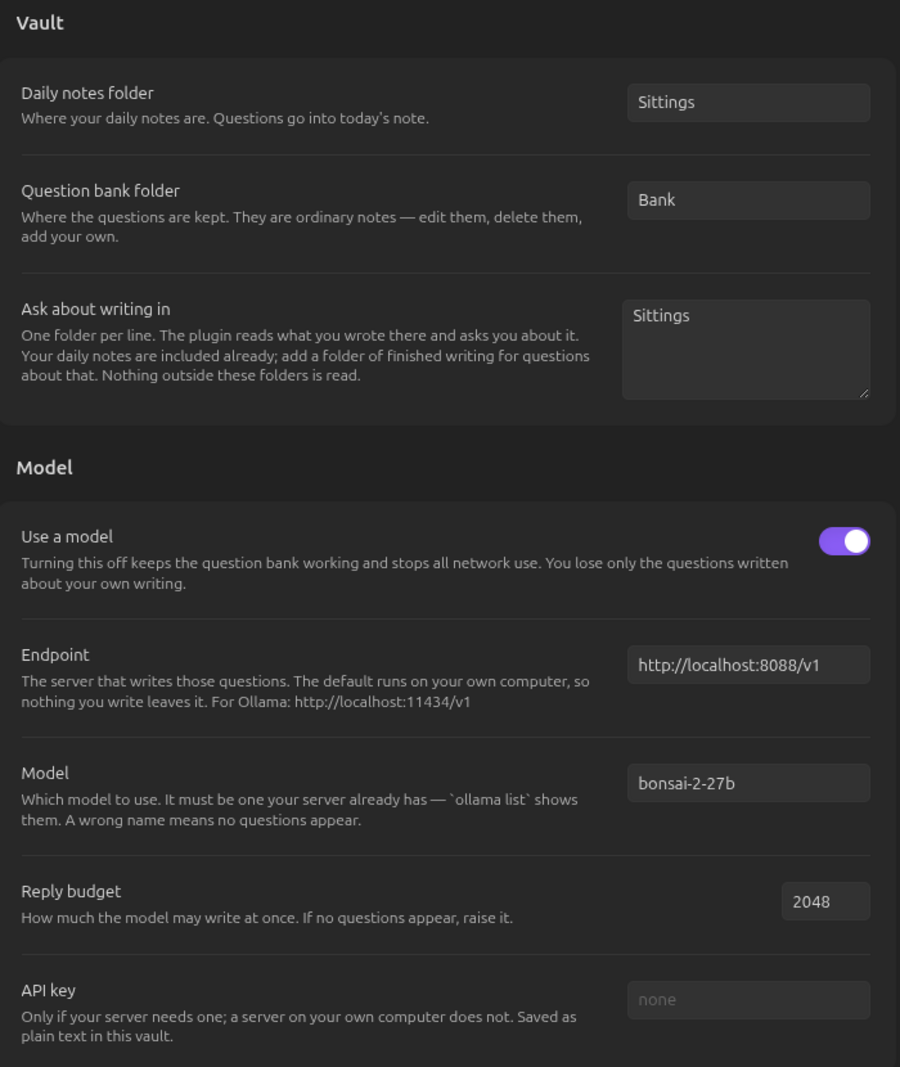
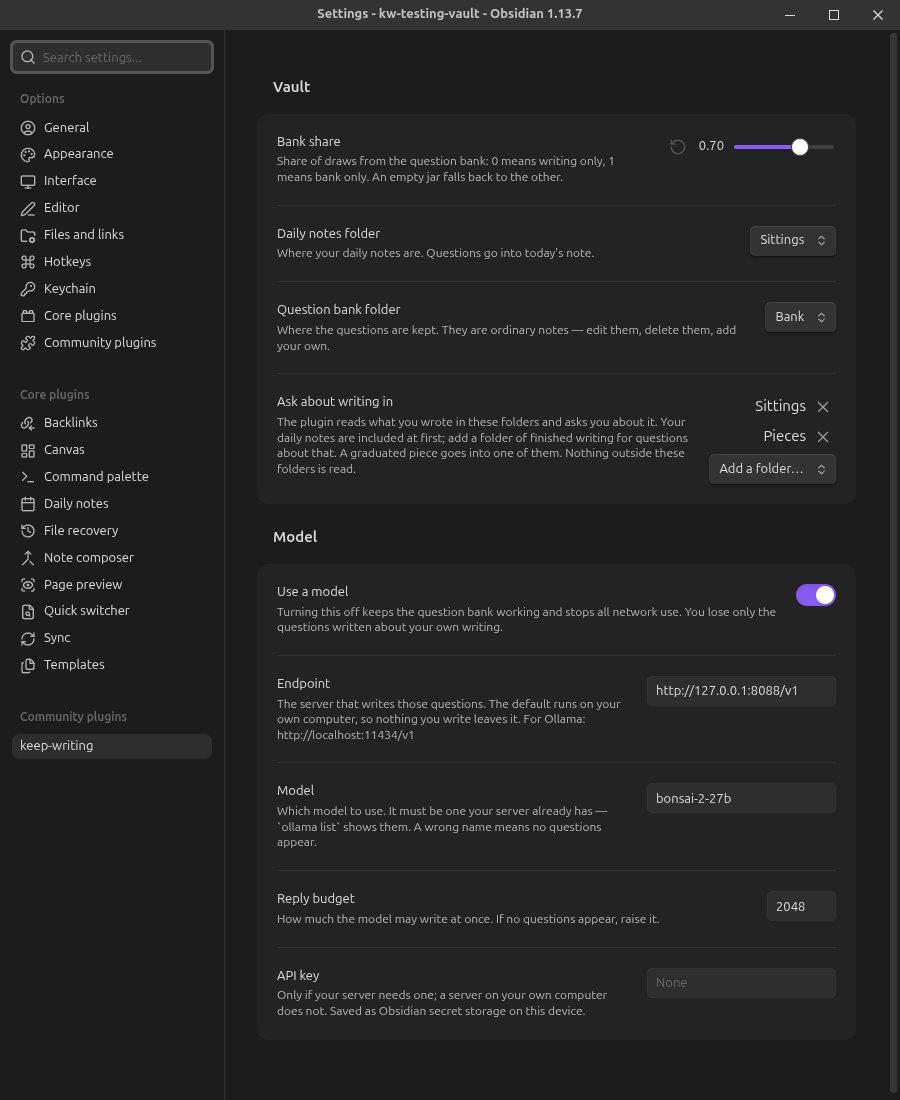
README: re-record the loop and graduation; folder dropdowns stay fresh
- loop.gif, graduate.gif, menu.png and settings.png recorded in the demo
  vault by Obsidian capturing its own window; scripts/record/ says how.
- Settings folder dropdowns offered only the current folder after every
  app start: Obsidian stores getSettingDefinitions() at plugin load, before
  the vault is indexed. keepFoldersFresh re-reads them on layout ready and
  on every folder create, delete and rename.

diff --git a/scripts/record/loop.js b/scripts/record/loop.js
@@ -1,0 +1,46 @@
+// The loop: answer a question, mark it done, take a follow-up. Demo vault only.
+(() => {
+  const K = window.__kw;
+  const ANSWER = 'I said I would call from the station, and I meant it when I said it. The phone box outside was out of order and by the time I found another one it was late enough that ringing would have been its own kind of rudeness. That is the whole of it. Not a decision, just a series of small reasonable delays that added up to never.';
+  K.run('loop', async () => {
+    const path = 'Sittings/2026-09-25.md';
+    const old = app.vault.getAbstractFileByPath(path);
+    if (old) await app.vault.delete(old);
+    const body = '## Asked\n\n> [!ask] what was the last thing you said before a door closed for good?\n> from [[Bank/autobiographical#^ep-003]]\n\n\n';
+    const file = await app.vault.create(path, body);
+    await app.workspace.getLeaf(false).openFile(file);
+    await K.sleep(900);
+    const ed = K.editor();
+    ed.setCursor({ line: 5, ch: 0 });
+    ed.focus();
+    await K.frame('loop-01', 1.6);
+    // Typed in chunks of words, so the answer is seen being written.
+    const words = ANSWER.split(' ');
+    const step = Math.ceil(words.length / 7);
+    for (let i = step, n = 2; i < words.length + step; i += step, n++) {
+      const text = words.slice(0, Math.min(i, words.length)).join(' ');
+      ed.setLine(5, text);
+      ed.setCursor({ line: 5, ch: text.length });
+      await K.frame(`loop-${String(n).padStart(2, '0')}`, i >= words.length ? 1.4 : 0.35);
+    }
+    // Obsidian saves the editor about 2 s after the last keystroke, and marking
+    // reads the saved note. A person pauses; so does this.
+    await K.sleep(3000);
+    K.rightClick();
+    await K.until(() => K.menus().length > 0, 3000);
+    const sub = await K.openSubmenu();
+    K.hover('Mark this answer done, and follow up');
+    await K.frame('loop-20', 2.6);
+    K.item(sub, 'Mark this answer done, and follow up').click();
+    await K.until(() => document.querySelector('.notice'), 5000).catch(() => null);
+    await K.sleep(700);
+    await K.frame('loop-21', 1.8);
+    await K.until(() => document.querySelectorAll('.prompt .suggestion-item').length > 0, 120000);
+    await K.sleep(300);
+    await K.frame('loop-22', 3.2);
+    document.querySelector('.prompt .suggestion-item').click();
+    await K.until(() => !document.querySelector('.prompt'), 5000);
+    await K.sleep(900);
+    await K.frame('loop-23', 3.6);
+  });
+})();

diff --git a/scripts/record/graduate.js b/scripts/record/graduate.js
@@ -1,0 +1,45 @@
+// Graduation: a thread of the demo Sitting becomes a piece. Demo vault only.
+(() => {
+  const K = window.__kw;
+  const row = (name) => [...document.querySelectorAll('.modal .setting-item')].find((r) => r.querySelector('.setting-item-name')?.textContent === name);
+  K.run('graduate', async () => {
+    const file = app.vault.getAbstractFileByPath('Sittings/2026-09-18.md');
+    await app.workspace.getLeaf(false).openFile(file);
+    await K.sleep(900);
+    const ed = K.editor();
+    const line = ed.getValue().split('\n').findIndex((l) => l.includes('^5vaacs'));
+    ed.setCursor({ line, ch: ed.getLine(line).length });
+    ed.focus();
+    ed.scrollIntoView({ from: { line: 0, ch: 0 }, to: { line: 0, ch: 0 } });
+    await K.frame('grad-01', 1.8);
+    K.rightClick();
+    await K.until(() => K.menus().length > 0, 3000);
+    await K.openSubmenu();
+    K.hover('Graduate threads to pieces');
+    await K.frame('grad-02', 2.4);
+    [...K.menus()[1].querySelectorAll('.menu-item')].find((i) => i.textContent.includes('Graduate')).click();
+    await K.until(() => document.querySelector('.modal .kw-summary'), 5000);
+    await K.frame('grad-03', 1.0);
+    await K.until(() => { const t = document.querySelector('.modal .kw-summary')?.textContent ?? ''; return t && !t.startsWith('Reading'); }, 120000);
+    await K.frame('grad-04', 2.4);
+    const input = row('Title').querySelector('input');
+    const title = 'The door handle';
+    for (let i = 5; i <= title.length + 4; i += 5) {
+      input.value = title.slice(0, i);
+      input.dispatchEvent(new Event('input', { bubbles: true }));
+      await K.sleep(80);
+    }
+    await K.frame('grad-05', 1.6);
+    row('Suggest headings').querySelector('.checkbox-container').click();
+    const questions = ['what did you save from a place that no longer exists?', 'What did the flat look like on a rainy day when the handle stuck?'];
+    await K.until(() => {
+      const fields = [...document.querySelectorAll('.modal .kw-piece input[type=text]')].slice(1);
+      return fields.length === 2 && fields.every((f, i) => f.value && f.value !== questions[i]);
+    }, 120000);
+    await K.frame('grad-06', 3.4);
+    [...document.querySelectorAll('.modal button')].find((b) => b.textContent === 'Graduate').click();
+    await K.until(() => app.workspace.getActiveFile()?.path === 'Pieces/The door handle.md', 10000);
+    await K.sleep(1200);
+    await K.frame('grad-07', 4.0);
+  });
+})();

diff --git a/scripts/record/lib.js b/scripts/record/lib.js
@@ -1,0 +1,48 @@
+// Shared helpers for recording keep-writing in the demo vault. Runs inside Obsidian.
+(() => {
+  const r = window.require('@electron/remote');
+  const fs = window.require('fs');
+  const DIR = '/mnt/Ghar/2TA/DevStuff/notebook/.kw-capture';
+  const K = (window.__kw = { frames: [], state: 'idle', log: [] });
+  K.sleep = (ms) => new Promise((res) => setTimeout(res, ms));
+  K.frame = async (name, seconds) => {
+    await K.sleep(120);
+    const img = await r.getCurrentWebContents().capturePage();
+    fs.writeFileSync(`${DIR}/${name}.png`, img.toPNG());
+    K.frames.push({ name, seconds });
+  };
+  K.until = async (test, ms = 90000) => {
+    const end = Date.now() + ms;
+    while (Date.now() < end) { const v = test(); if (v) return v; await K.sleep(200); }
+    throw new Error('timed out waiting');
+  };
+  K.editor = () => app.workspace.activeEditor.editor;
+  K.rightClick = () => {
+    const ed = K.editor(); const cm = ed.cm;
+    const c = cm.coordsAtPos(cm.state.selection.main.head);
+    const ref = app.workspace.on('editor-menu', (m) => { K.menu = m; });
+    cm.contentDOM.dispatchEvent(new MouseEvent('contextmenu', { bubbles: true, cancelable: true, clientX: c.left + 4, clientY: c.top + 8 }));
+    app.workspace.offref(ref);
+  };
+  K.menus = () => [...document.querySelectorAll('.menu')];
+  K.item = (menu, title) => [...menu.querySelectorAll('.menu-item')].find((i) => i.querySelector('.menu-item-title')?.textContent === title);
+  // What Obsidian's own pointer handling calls: open the submenu, return it.
+  K.openSubmenu = async (title = 'keep-writing') => {
+    const item = K.menu.items.find((i) => i.titleEl && i.titleEl.textContent === title);
+    K.menu.select(K.menu.items.indexOf(item));
+    K.menu.openSubmenu(item);
+    await K.until(() => K.menus().length > 1, 3000);
+    K.sub = item.submenu;
+    return K.menus()[1];
+  };
+  K.hover = (title) => {
+    const i = K.sub.items.findIndex((x) => x.titleEl && x.titleEl.textContent === title);
+    K.sub.select(i);
+  };
+  K.write = (name, data) => fs.writeFileSync(`${DIR}/${name}`, data);
+  K.run = (name, fn) => {
+    K.state = 'running';
+    fn().then(() => { K.write(`${name}.json`, JSON.stringify(K.frames, null, 1)); K.state = 'done'; })
+      .catch((e) => { K.state = 'ERR ' + e.message; });
+  };
+})();

diff --git a/test/settings.test.ts b/test/settings.test.ts
@@ -7,7 +7,8 @@
 // textarea, or by hand in data.json. It is cleaned when it is read.
 
 import { describe, expect, test } from 'bun:test';
-import { folderOptions, isEndpoint, readFolders, withFolder, withoutFolder } from '../src/settings';
+import { TFile, TFolder } from 'obsidian';
+import { folderOptions, keepFoldersFresh, isEndpoint, readFolders, withFolder, withoutFolder } from '../src/settings';
 
 describe('readFolders', () => {
   test('a stored list, as it is', () => {
@@ -63,5 +64,41 @@ describe('isEndpoint', () => {
     expect(isEndpoint('127.0.0.1:8088')).toBe(false); // no scheme at all
     expect(isEndpoint('file:///etc/passwd')).toBe(false); // parses, but not something to POST to
     expect(isEndpoint('not a url')).toBe(false);
+  });
+});
+
+// Obsidian reads getSettingDefinitions() when the tab is ADDED — at plugin
+// load, before the vault is indexed — and draws that copy on every open; a
+// display() override is bypassed in 1.13. So the folder dropdowns offered
+// nothing but their current value after every restart, measured 2026-09-24
+// in a running 1.13.7: one option, three after update().
+describe('the folder options stay fresh', () => {
+  function wire() {
+    const handlers: Record<string, (f: unknown) => void> = {};
+    let ready: (() => void) | null = null;
+    const app = {
+      workspace: { onLayoutReady: (f: () => void) => { ready = f; } },
+      vault: { on: (name: string, f: (x: unknown) => void) => { handlers[name] = f; return name; } },
+    };
+    let updates = 0;
+    const registered: unknown[] = [];
+    keepFoldersFresh(app as never, { update: () => { updates++; } }, (ref) => registered.push(ref));
+    return { handlers, ready: () => ready?.(), updates: () => updates, registered };
+  }
+
+  test('once the vault is indexed, the definitions are read again', () => {
+    const w = wire();
+    expect(w.updates()).toBe(0);
+    w.ready();
+    expect(w.updates()).toBe(1);
+  });
+
+  test('a folder made, removed or renamed is read again; a note is not', () => {
+    const w = wire();
+    w.ready();
+    for (const event of ['create', 'delete', 'rename']) w.handlers[event]!(new TFolder());
+    w.handlers['create']!(new TFile());
+    expect(w.updates()).toBe(4);
+    expect(w.registered).toEqual(['create', 'delete', 'rename']);
   });
 });

diff --git a/src/settings.ts b/src/settings.ts
@@ -1,8 +1,8 @@
 // Plugin settings and the settings tab.
 
 import { BANK_SHARE } from './bank';
-import { DropdownComponent, ExtraButtonComponent, PluginSettingTab } from 'obsidian';
-import type { App, Plugin, Setting, SettingDefinitionItem } from 'obsidian';
+import { DropdownComponent, ExtraButtonComponent, PluginSettingTab, TFolder } from 'obsidian';
+import type { App, EventRef, Plugin, Setting, SettingDefinitionItem, TAbstractFile } from 'obsidian';
 
 export interface KeepWritingSettings {
   /** OpenAI-compatible endpoint base URL for bonsai. */
@@ -335,6 +335,26 @@ export function withFolder(list: string[], folder: string): string[] {
 /** Pure: the list without this folder. */
 export function withoutFolder(list: string[], folder: string): string[] {
   return list.filter((f) => f !== folder);
+}
+
+/**
+ * Keep the folder dropdowns offering the vault's folders. Obsidian reads
+ * getSettingDefinitions() once, when the tab is added — at plugin load, before
+ * the vault is indexed — and draws that copy on every open; a display()
+ * override is bypassed in 1.13. So the definitions are read again once the
+ * vault is indexed, and whenever a folder is made, removed or renamed. A note
+ * event costs one type check.
+ */
+export function keepFoldersFresh(app: App, tab: { update(): void }, register: (ref: EventRef) => void): void {
+  app.workspace.onLayoutReady(() => {
+    tab.update();
+    const refresh = (file: TAbstractFile) => {
+      if (file instanceof TFolder) tab.update();
+    };
+    register(app.vault.on('create', refresh));
+    register(app.vault.on('delete', refresh));
+    register(app.vault.on('rename', refresh));
+  });
 }
 
 /** Pure: something the endpoint call can actually be made against. */

diff --git a/src/main.ts b/src/main.ts
@@ -24,7 +24,7 @@ import { sittingName } from './paragraphs';
 import type { Paragraph } from './paragraphs';
 import { formatRef } from './refs';
 import { modelFailureLine, refusalLine } from './refusal';
-import { DEFAULT_SETTINGS, KeepWritingSettingTab, normalizeBankShare, readFolders } from './settings';
+import { DEFAULT_SETTINGS, KeepWritingSettingTab, keepFoldersFresh, normalizeBankShare, readFolders } from './settings';
 import { STARTER_BANK } from './starter-bank';
 import type { KeepWritingSettings } from './settings';
 import { isSitting } from './target';
@@ -168,7 +168,9 @@ export default class KeepWritingPlugin extends Plugin {
         addMenuActions(menu, actions, Platform.isMobile);
       }),
     );
-    this.addSettingTab(new KeepWritingSettingTab(this.app, this));
+    const settingsTab = new KeepWritingSettingTab(this.app, this);
+    this.addSettingTab(settingsTab);
+    keepFoldersFresh(this.app, settingsTab, (ref) => this.registerEvent(ref));
   }
 
   // -------------------------------------------------------------------------

diff --git a/test/setup.ts b/test/setup.ts
@@ -31,7 +31,10 @@ mock.module('obsidian', () => ({
   },
   FuzzySuggestModal: class {},
   Plugin: class {},
-  PluginSettingTab: class {},
+  PluginSettingTab: class {
+    display(): void {}
+    update(): void {}
+  },
   Setting: class {},
   DropdownComponent: class {},
   ExtraButtonComponent: class {},

diff --git a/README.md b/README.md
@@ -4,7 +4,7 @@ A vault that interviews you, so that you keep writing.
 
 A blank page stops you; a question doesn't. keep-writing puts one into your daily note in [Obsidian](https://obsidian.md), you answer it in your own words, and the next questions come out of what you already wrote — so it never runs out.
 
-![Three steps in a daily note: choosing "Mark this answer done" from the right-click menu; the answer gaining a link to the question it answers and the kind of question it was; then a follow-up question, composed from that answer, written in and answered.](https://raw.githubusercontent.com/micahchoo/keep-writing/main/docs/img/loop.gif)
+![In a daily note, an answer is written under a question; "Mark this answer done, and follow up" is chosen from the right-click menu; the answer gains a block id and a link to the question it answers; the model offers three follow-up questions from what was written, and the chosen one lands below the answer.](https://raw.githubusercontent.com/micahchoo/keep-writing/main/docs/img/loop.gif)
 
 > **In the community store, and early.** Search community plugins for **keep-writing**. Needs **Obsidian 1.13 or newer**. Questions built from your own writing need a model endpoint; everything else works without one.
 
@@ -54,7 +54,9 @@ On the editor's right-click menu under **keep-writing**, and in the command pale
 | **Install the starter question bank** | Writes the question notes into your bank folder. Skips anything already there. |
 | **Graduate threads to pieces** | In a daily note, turns a question and its follow-ups into a piece of writing of its own: your words moved as written, the questions as headings. |
 
-![Obsidian's right-click menu with a keep-writing submenu open, holding Draw a question and Mark this answer done.](https://raw.githubusercontent.com/micahchoo/keep-writing/main/docs/img/menu.png)
+![Graduating a daily note's thread: "Graduate threads to pieces" from the right-click menu; a form with three lines on what the thread is about, a title typed in, and suggested headings filled in; then the new piece, with its title, date, headings and the answers as they were written.](https://raw.githubusercontent.com/micahchoo/keep-writing/main/docs/img/graduate.gif)
+
+![Obsidian's right-click menu with a keep-writing submenu open, holding Draw a question, Mark this answer done, and Graduate threads to pieces.](https://raw.githubusercontent.com/micahchoo/keep-writing/main/docs/img/menu.png)
 
 ## On a phone
 
@@ -76,7 +78,7 @@ Findable from Obsidian's own settings search: type "bank folder" or "endpoint" a
 | **Reply budget** | Raise it if you get no questions and no error. Default `2048`. |
 | **API key** | Only if your server needs one. Saved in Obsidian secret storage on this device; existing plaintext settings migrate automatically. |
 
-![The plugin's settings, in two groups. Vault: daily notes folder, question bank folder, and the folders it may read your writing from. Model: a switch, the endpoint, the model name, the reply budget and an API key.](https://raw.githubusercontent.com/micahchoo/keep-writing/main/docs/img/settings.png)
+![The plugin's settings, in two groups. Vault: the bank share, the daily notes and question bank folders chosen from dropdowns, and the folders it reads your writing from, with an Add a folder dropdown. Model: a switch, the endpoint, the model name, the reply budget and an API key.](https://raw.githubusercontent.com/micahchoo/keep-writing/main/docs/img/settings.png)
 
 **Nothing you write leaves your computer** unless you point the endpoint somewhere else. That is the whole of what changes.
 

diff --git a/scripts/record/README.md b/scripts/record/README.md
@@ -1,0 +1,25 @@
+# Recording the README's images
+
+Obsidian captures its own window: `@electron/remote` is reachable from the
+Obsidian CLI's `eval`, and `webContents.capturePage()` returns a PNG of the
+window with its menus, notices and modals. This works under Wayland, where
+every outside capture route failed (see HANDOFF, 2026-09-18).
+
+Record in `notebook/kw-testing-vault`, never in a real vault: these images are
+public. The answers shown are the demo vault's own.
+
+1. Open the demo vault (`obsidian "obsidian://open?vault=kw-testing-vault"`),
+   install the build, point it at a model the server has.
+2. Size the window: `getCurrentWindow().setContentSize(1100, 800)`, sidebars
+   collapsed. Settings open in their OWN window; capture that one by title.
+3. Load `lib.js`, then `loop.js` or `graduate.js`, with
+   `(0,eval)(fs.readFileSync(path,'utf8'))` inside `eval`. Each runs async and
+   sets `window.__kw.state`; poll it. The CLI prints nothing for an `eval` that
+   awaits for long.
+4. Each script writes its frames and `<name>.json` with the seconds each frame
+   shows. Build the GIF with ffmpeg's concat demuxer from those durations,
+   `crop=950:760:150:40,scale=820:-1`, and a 96-colour palette.
+
+Paths in `lib.js` are absolute to this machine. Two traps: marking reads the
+SAVED note, so wait ~3 s after typing; and asking the window manager for a
+height near the screen's makes it maximize the window.

diff --git a/docs/RELEASE-NOTES.md b/docs/RELEASE-NOTES.md
@@ -1,3 +1,7 @@
+# Unreleased
+
+- The folder dropdowns in settings list every folder in the vault, including folders made or renamed while Obsidian is open. In 0.3.0 they offered only the folder already chosen, and no **Add a folder** list, until the plugin was reloaded.
+
 # 0.3.0
 
 - A draw reads only the notes it chooses. Over 250,000 synthetic notes a draw takes 58 ms, where it took 6 s. The plugin no longer does work each time any note is saved.
